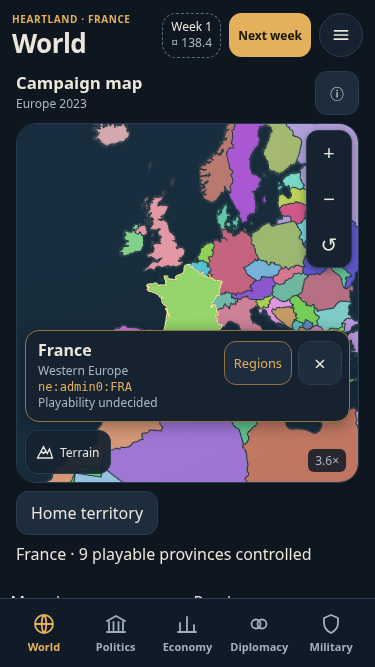
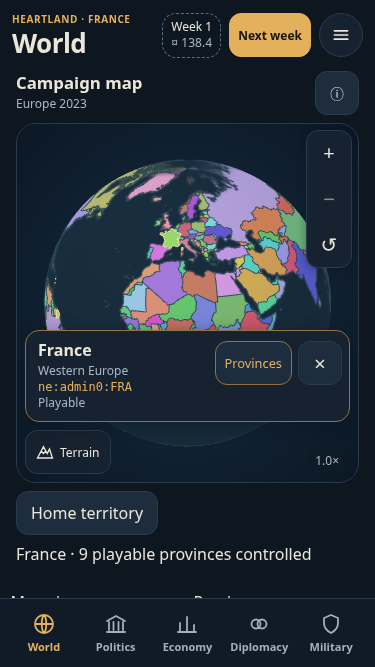
Clarify playable geography and record GEO-01 review evidence

diff --git a/src/ui/AtlasCountryPanel.tsx b/src/ui/AtlasCountryPanel.tsx
@@ -25,22 +25,24 @@ function AtlasInspectionPanel({ name, kind, onClear, action, children }: {
   </section>;
 }
 
-export function AtlasCountryPanel({ country, geography, onClear, onRegions, regionUnavailable }: {
+export function AtlasCountryPanel({ country, geography, onClear, onRegions, regionUnavailable, playability, regionLabel = "Regions" }: {
   country: AtlasCountry;
   geography?: CountryGeography;
   onClear: () => void;
-  onRegions: () => void;
+  onRegions?: () => void;
+  playability?: ReturnType<typeof countryPlayability>;
+  regionLabel?: string;
   regionUnavailable?: string;
 }) {
   const [longitude, latitude] = country.label;
   const coordinates = `${Math.abs(latitude).toFixed(2)}° ${latitude < 0 ? 'S' : 'N'}, ${Math.abs(longitude).toFixed(2)}° ${longitude < 0 ? 'W' : 'E'}`;
-  return <AtlasInspectionPanel kind="country" name={country.name} onClear={onClear} action={
+  return <AtlasInspectionPanel kind="country" name={country.name} onClear={onClear} action={onRegions &&
     <button type="button" className="atlas-regions-action" onClick={onRegions} disabled={Boolean(regionUnavailable)}
-      aria-describedby={regionUnavailable ? 'atlas-regions-unavailable' : undefined}>Regions</button>
+      aria-describedby={regionUnavailable ? 'atlas-regions-unavailable' : undefined}>{regionLabel}</button>
   }>
     <p>{geography?.subregion || geography?.continent || `Map point ${coordinates}`}</p>
     <p className="atlas-inspection-id"><span className="sr-only">Geographic ID </span><code>{country.id}</code></p>
-    <p>{playabilityLabels[countryPlayability(country.id)]}</p>
+    <p>{playabilityLabels[playability ?? countryPlayability(country.id)]}</p>
     {regionUnavailable && <p id="atlas-regions-unavailable">{regionUnavailable}</p>}
   </AtlasInspectionPanel>;
 }

diff --git a/src/ui/AtlasMap.tsx b/src/ui/AtlasMap.tsx
@@ -176,7 +176,7 @@ export default function AtlasMap({ active, onSettled, campaign, setup, terrainSt
     if (country) centerOn(country.label, true);
   }
 
-  const inspectedCampaignCountry = campaign?.scenario.countries.find(country => geographicCountry(country.id) === selectedId);
+  const inspectedCampaignCountry = (campaign?.scenario ?? setup?.scenario)?.countries.find(country => geographicCountry(country.id) === selectedId);
   const initialized = useRef<number | null>(null);
   useEffect(() => {
     if (!campaign || !visible || initialLoading || !viewport.current?.clientWidth || initialized.current === campaign.matchKey) return;
@@ -423,7 +423,9 @@ export default function AtlasMap({ active, onSettled, campaign, setup, terrainSt
       </div>
       {selectedCountry && !markersVisible && (inspectedRegion ? <AtlasRegionPanel region={inspectedRegion} country={selectedCountry} onClear={clearSelection} /> :
         <AtlasCountryPanel country={selectedCountry} geography={selectedGeography} onClear={clearSelection}
-          onRegions={openRegions} regionUnavailable={regionUnavailable} />)}
+          onRegions={campaign ? inspectedCampaignCountry && (() => centerCountry(inspectedCampaignCountry.id)) : openRegions}
+          regionUnavailable={campaign ? undefined : regionUnavailable} regionLabel={campaign ? "Provinces" : "Regions"}
+          playability={campaign || setup ? inspectedCampaignCountry ? 'playable' : 'unavailable' : undefined} />)}
       <p className="sr-only" role="status">{inspectedRegion ? `${regionName(inspectedRegion)}, ${selectedCountry?.name} selected` : selectedCountry ? `${selectedCountry.name} selected` : ''}</p>
     </div>
     {markersVisible && <div className="geo-map-actions">

diff --git a/docs/world/GEO-01.md b/docs/world/GEO-01.md
@@ -16,6 +16,8 @@ Europe 2023 uses the same mounted atlas, WebGL globe and geographic camera befor
 |---|---|---|
 | ![Campaign globe in portrait](geo01/globe.png) | ![Detailed provinces and division counters](geo01/detail.png) | ![Division counters and optional order overlay](geo01/orders.png) |
 
+[Formation selection example](geo01/selection.png)
+
 The browser test checks that the viewport is the same DOM element throughout, observes intermediate opacity during the projection dissolve, and verifies both endpoints, orientation changes, and division selection and locate. The owner build runs without opening persistent save storage.
 
 ## Physical iPhone acceptance
@@ -31,3 +33,39 @@ The browser test checks that the viewport is the same DOM element throughout, ob
 Proposed goals for the iPhone SE (2022), measured separately from the five unchanged simulation limits. Cold geographic startup to interactive globe ≤ 2,000 ms. Settled wheel/pinch or drag feedback within two display frames under normal load. Country start to settled detail ≤ 2,500 ms on a warm geometry cache. Tap to selection feedback and orientation relayout each ≤ 250 ms. Idle geometry should schedule zero frames after settling. Review heap trends after repeated navigation and rotation. Browser heap figures exclude GPU allocations and cannot establish device memory use.
 
 The projection dissolve changes the shape of geography near the edges. Globe-unavailable devices use the existing flat fallback. The geographic view keeps selection for the running match, while save records retain the existing game-only schema. Strategic order entry remains part of MIL-00-UX.
+
+## Verification measurements
+
+These are development-host Chromium browser measurements. Portrait and landscape use mobile viewports. The 6× run simulates a slower CPU on the same host. Startup includes asset loading, country-to-detail includes the flight and first marker paint, and drag measures an eight-step browser input sequence. Heap is a single JavaScript sample after navigation and rotation.
+
+| Geographic measurement | Portrait 375×667 | Landscape 667×375 | Portrait, 6× CPU |
+|---|---:|---:|---:|
+| Interactive globe startup | 1,003 ms | 912 ms | 1,765 ms |
+| Eight-step globe drag | 378 ms | 396 ms | 1,294 ms |
+| Wheel to two animation frames | 32 ms | 42 ms | 29 ms |
+| Start match to settled detail and counters | 1,382 ms | 1,471 ms | 3,746 ms |
+| Tap counter to formation list | 75 ms | 159 ms | 445 ms |
+| Zoom out to settled globe | 481 ms | 589 ms | 2,148 ms |
+| Orientation resize response | 32 ms | 41 ms | 298 ms |
+| Animation callbacks in settled 350 ms | 0 | 0 | 0 |
+| JS heap after interaction | 31 MiB | 79 MiB | 49 MiB |
+
+All three runs observed intermediate projection opacity. A separate desktop Chromium run rendered all 90 synthetic formations as clustered counters in 2,124 ms from match start. The owner preview exposes this optional workload with `?marker-stress=90`. Physical GEO-01 measurements remain pending.
+
+The 156-turn simulation benchmarks ran separately with the immutable draft.3 roster and 61 economic zones. All figures are milliseconds. The physical rows are the owner's accepted MIL-00 baseline.
+
+| Simulation environment | Start | Median | P95 | Slowest | Save and restore |
+|---|---:|---:|---:|---:|---:|
+| Existing limits | 1,000 | 250 | 500 | 1,000 | 1,000 |
+| Desktop Node, calm | 45 | 48 | 105 | 219 | 117 |
+| Desktop Node, heavy | 27 | 50 | 75 | 153 | 129 |
+| Chromium, calm | 254 | 25 | 67 | 336 | 110 |
+| Chromium, heavy | 171 | 23 | 72 | 198 | 85 |
+| Chromium 6×, calm | 422 | 152 | 299 | 827 | **1,062** |
+| Chromium 6×, heavy | 328 | 157 | 338 | 469 | **1,546** |
+| Physical Safari baseline, calm | 554 | 19 | 75 | 164 | 164 |
+| Physical Safari baseline, heavy | 413 | 31 | 77 | 190 | 170 |
+
+The throttled simulation misses the save and restore limit in both modes. The original thresholds still apply. The first MIL-00 physical calm attempt initialized in 4,128 ms. Its cause remains unconfirmed.
+
+Verification passed 184 game tests, 218 economy tests, the 10,000-week economy test, both typechecks, standard and review builds, and the distribution audit. The existing WORLD-04 browser suite passed all six countries at both sizes and checked save and reload. SAVE-01 passed in portrait and landscape. A targeted browser check passed a two-contact pinch and an actual staged move overlay. The unmodified GAME-UX-01 check reproduced its known intermittent Week 2 report timeout.
